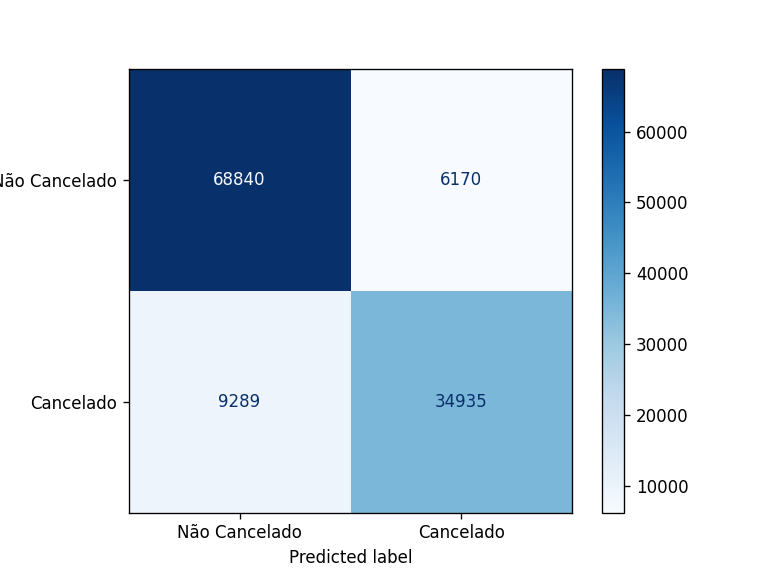
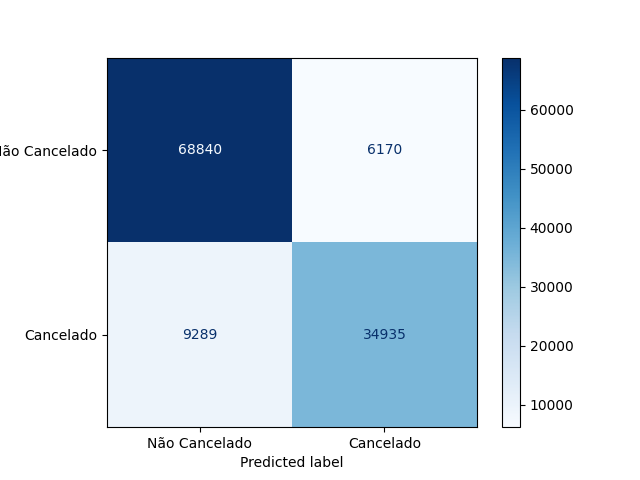
token

diff --git a/train.py b/train.py
@@ -134,7 +134,8 @@ def CM(y, y_pred):
     disp = ConfusionMatrixDisplay(confusion_matrix=cm, display_labels=labels)
     disp.plot(cmap="Blues", values_format="d")  
     #plt.show()
-    plt.savefig('confusion_matrix.png', dpi=120)
+    plt.savefig('confusion_matrix.png')
+    plt.close()
     #print("Score: \n", classification_report(y,y_pred))
 
 def ROC(model, y, y_prob, model_dict):
@@ -177,7 +178,7 @@ for i in range(len(y_prob)):
         y_pred[i] = 0  
 
 CM(y,y_pred)
-ROC(lgbm, y, y_prob, 'lgbm') 
+#ROC(lgbm, y, y_prob, 'lgbm') 
 
 scores = cross_validate(lgbm, X, y, cv = Kfold, scoring=['accuracy','precision','recall','f1','roc_auc'], return_train_score=True)
 
